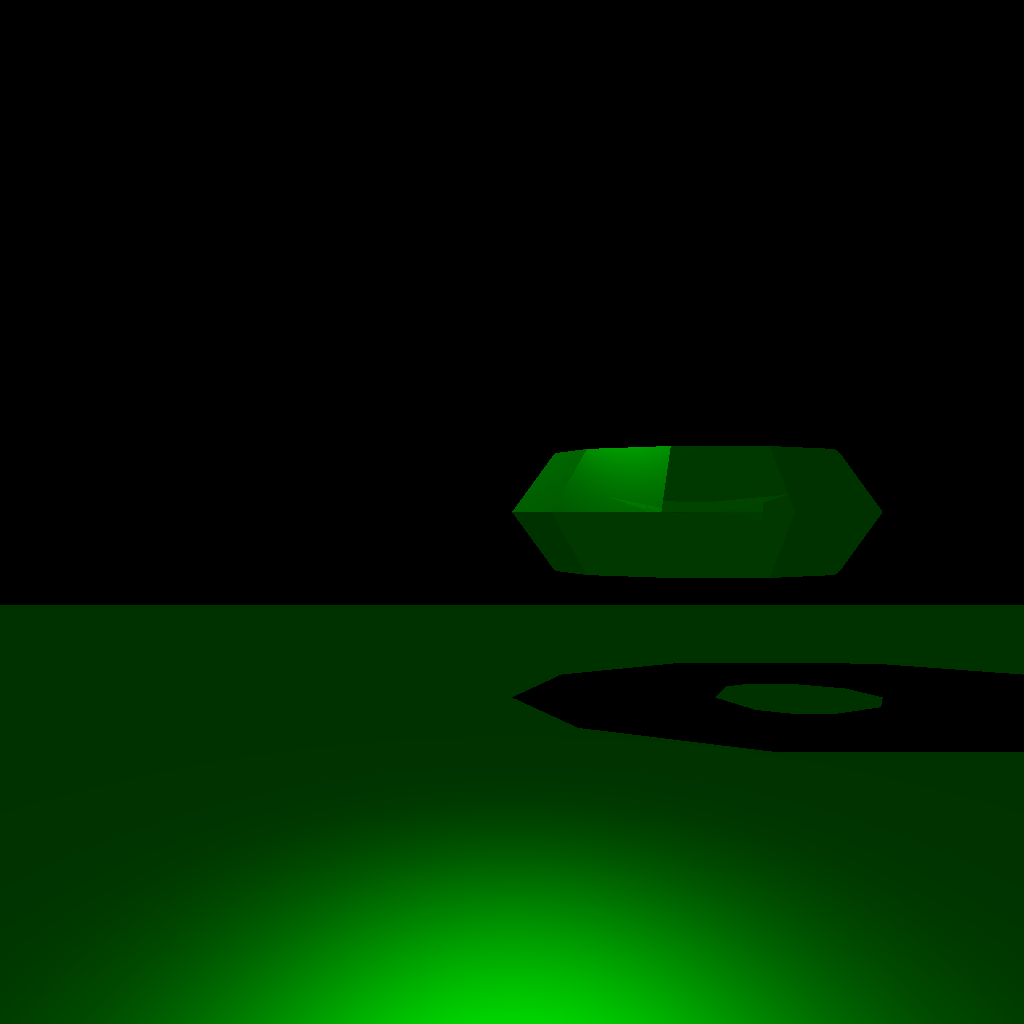
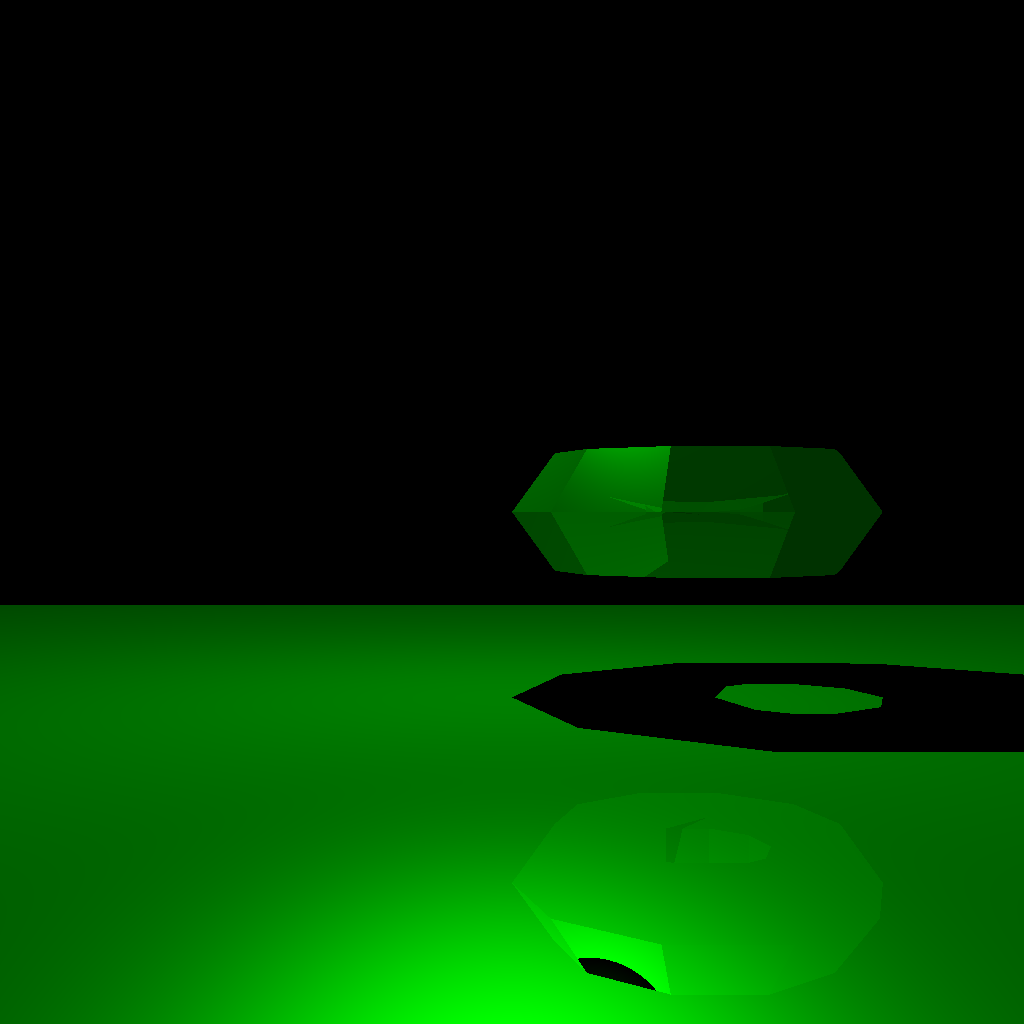
ray tracing

diff --git a/PhysicallyBasedRendering/RayTracingRenderer.cpp b/PhysicallyBasedRendering/RayTracingRenderer.cpp
@@ -54,13 +54,13 @@ void RayTracingRenderer::InitializeRender()
 	halfPlane1.v0 = glm::vec3(-halfWidth, 3.0f,  halfWidth);
 	halfPlane1.v1 = glm::vec3(-halfWidth, 3.0f, -halfWidth);
 	halfPlane1.v2 = glm::vec3( halfWidth, 3.0f,  halfWidth);
-	halfPlane1.normal = glm::vec3(0.0f, 1.0f, 0.0f);
+	halfPlane1.normal = glm::vec3(0.0f, -1.0f, 0.0f);
 	triangles.push_back(halfPlane1);
 
 	halfPlane2.v0 = glm::vec3( halfWidth, 3.0f,  halfWidth);
 	halfPlane2.v1 = glm::vec3(-halfWidth, 3.0f, -halfWidth);
 	halfPlane2.v2 = glm::vec3( halfWidth, 3.0f, -halfWidth);
-	halfPlane2.normal = glm::vec3(0.0f, 1.0f, 0.0f);
+	halfPlane2.normal = glm::vec3(0.0f, -1.0f, 0.0f);
 	triangles.push_back(halfPlane2);
 }
 
